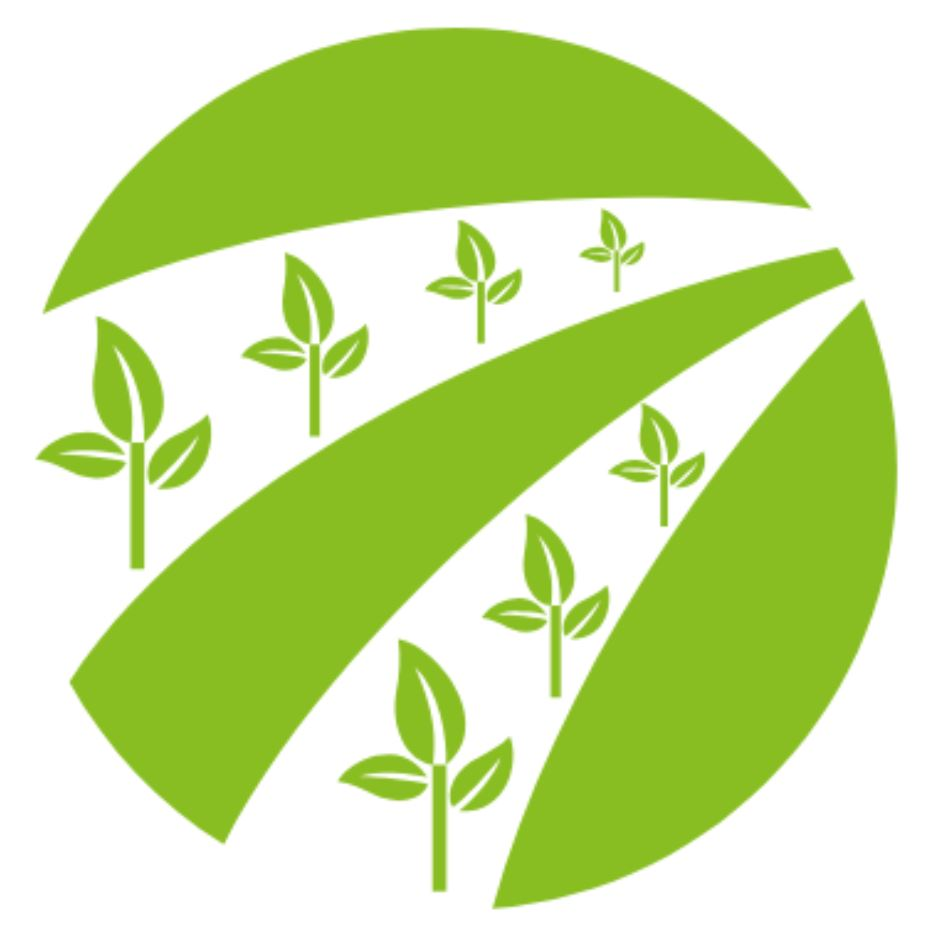
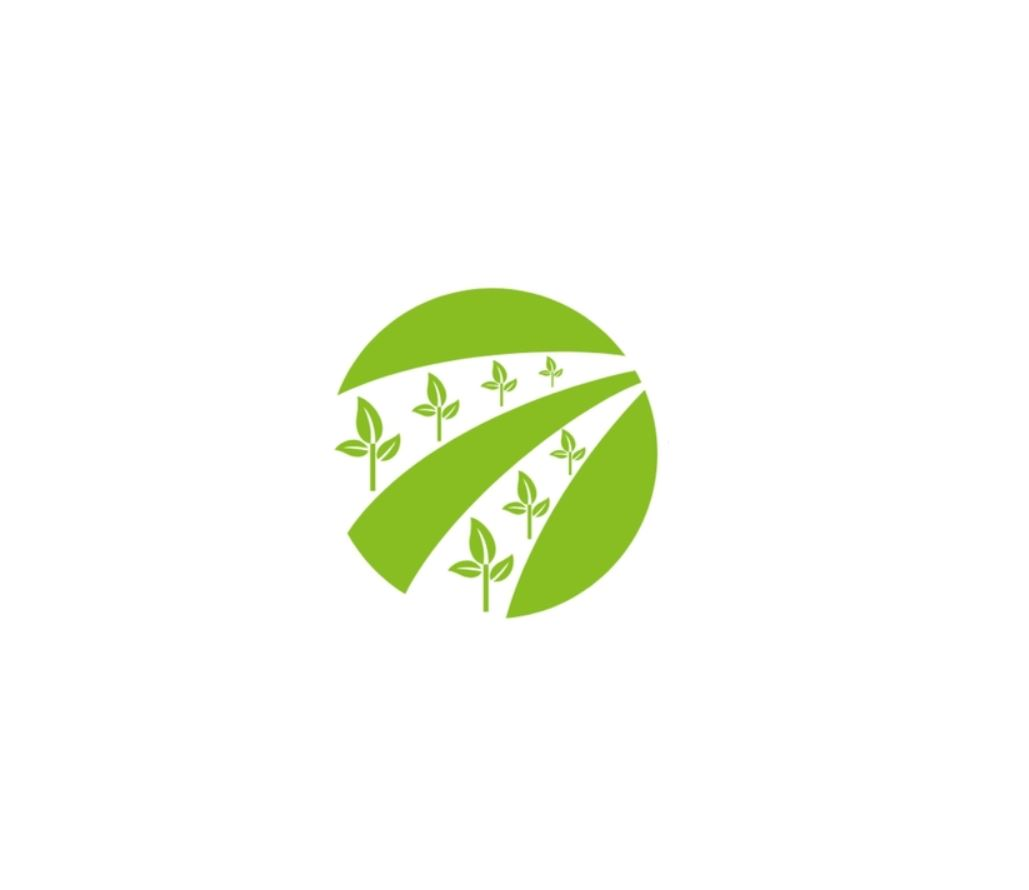
Agrobotupdate (#315)
* making ubc survey link live

* travis failed

* uploaded new logo and updated project page

* travis failed

* changed size of agrobot logo

* edited agrobot logo

* Travis build fail

diff --git a/_projects/agrobot.md b/_projects/agrobot.md
@@ -9,7 +9,7 @@ headline: Future-proof agriculture
 description: We are a diverse team of students from across different engineering disciplines. With a shared passion for innovation and technology, we hope to contribute to the future of agriculture, in transitioning from human labour to full automation.
 
 box: >
-  As the world population grows, climate change continues, and reliable human labour becomes increasingly expensive, we must find more efficient and sustainable ways to grow food. The UBC AgroBot team will be building a fully autonomous robot capable of analyzing its environment and performing targeted farming tasks to minimize the amount of chemicals used and disruptions in the soil. We hope to raise interest in modern agriculture and its possibility for application of advanced robotics, machine learning, image recognition, artificial intelligence and much more. This project will be competing in the agBot challenge at Purdue University.
+  As the world population grows, climate change continues and reliable human labour becomes increasingly expensive, we must find more efficient and sustainable ways to grow food and sustain ourselves. The UBC AgroBot team will be building a fully autonomous robot capable of analyzing its environment and performing targeted farming tasks to minimize the amount of chemicals used and disruptions in the soil. We hope to raise interest in modern agriculture and its possibility for application of advanced robotics, machine learning, image recognition, artificial intelligence and much more. This project will be competing in the agBot challenge at Purdue University.
 ---
 
 # The Challenge
